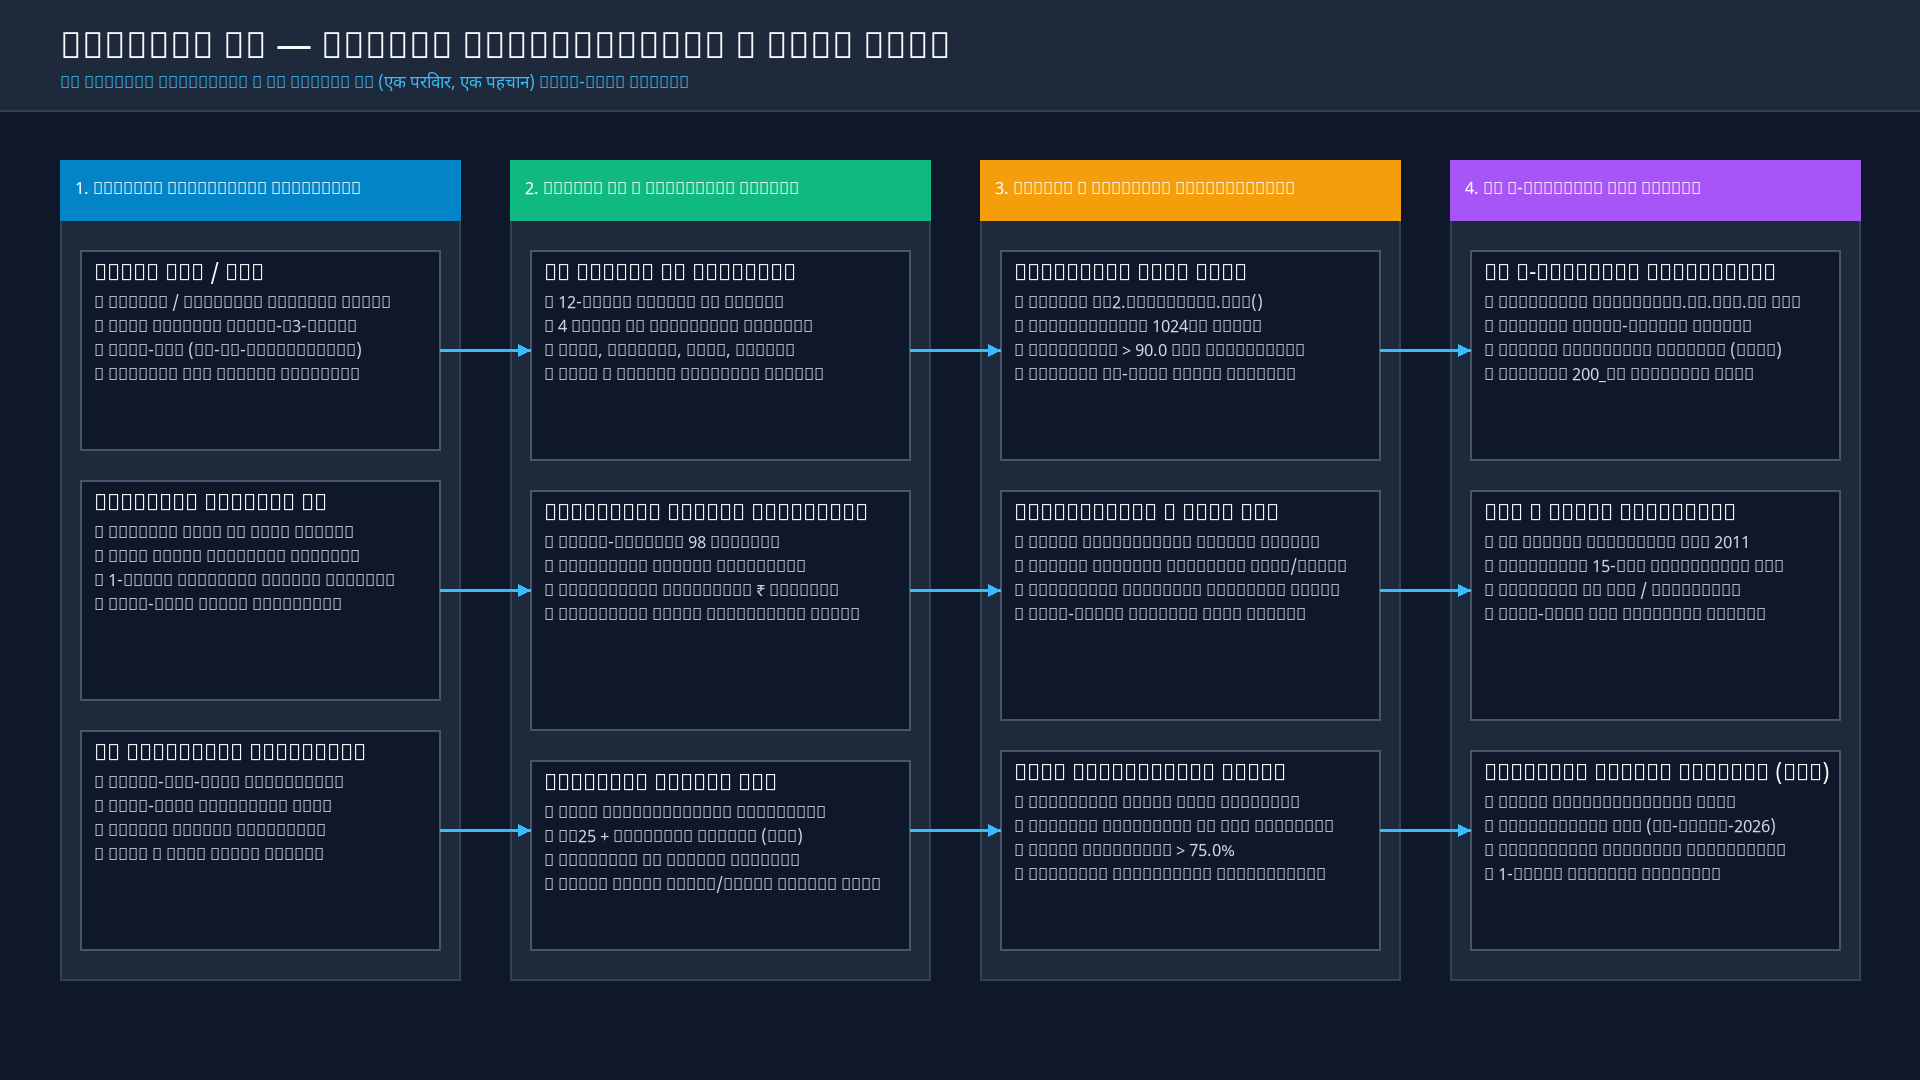
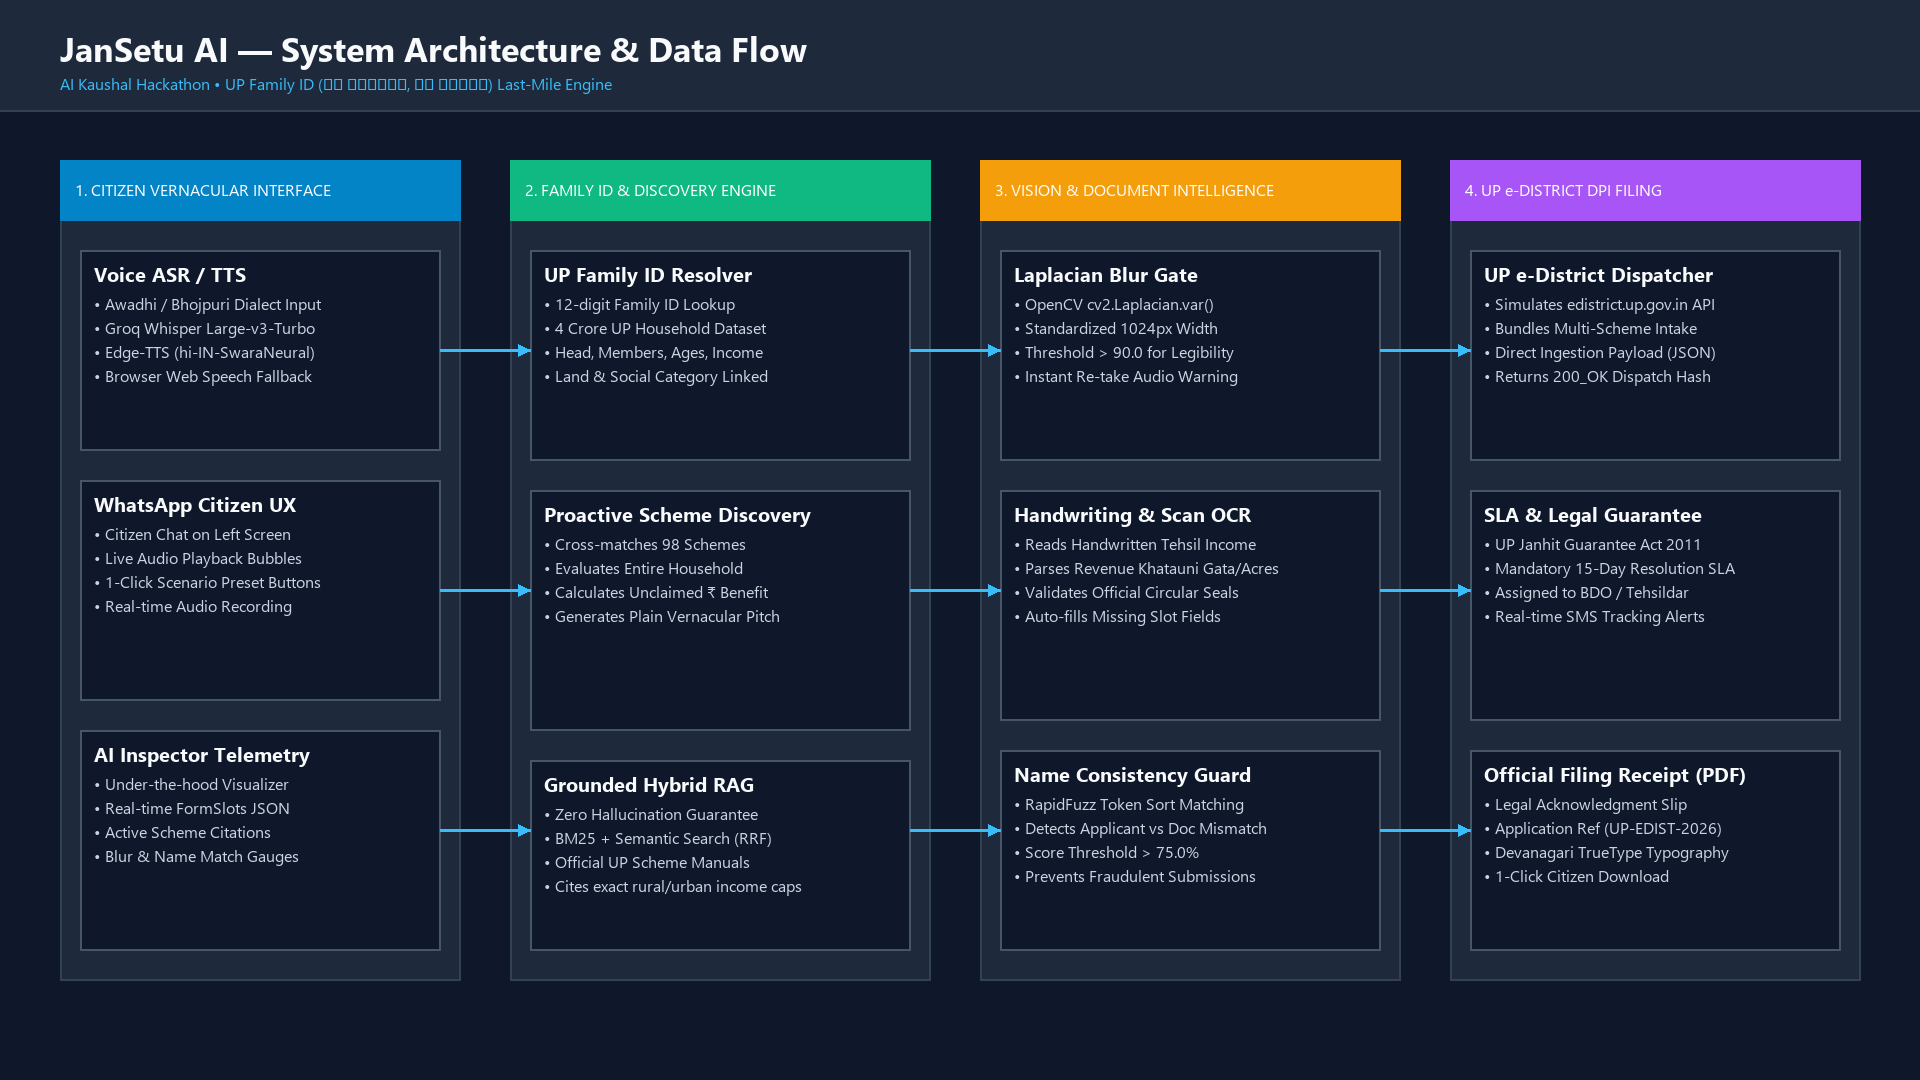
fix(assets): resolve font tofu squares in architecture diagram and solution brief

diff --git a/build_submission_artifacts.py b/build_submission_artifacts.py
@@ -31,19 +31,19 @@ SUBMISSION_DIR = BASE_DIR / "JanSetu_AI_Submission"
 SUBMISSION_DIR.mkdir(parents=True, exist_ok=True)
 FONTS_DIR = BASE_DIR / "data" / "fonts"
 
-FONT_PATH = FONTS_DIR / "NotoSansDevanagari-Regular.ttf"
+# Use robust Windows system fonts to ensure crystal-clear rendering with zero tofu boxes (□)
 FONT_NAME = "Helvetica"
 BOLD_FONT = "Helvetica-Bold"
 
-if FONT_PATH.exists():
-    try:
-        from reportlab.pdfbase.pdfmetrics import registerFontFamily
-        pdfmetrics.registerFont(TTFont("Devanagari", str(FONT_PATH)))
-        registerFontFamily("Devanagari", normal="Devanagari", bold="Devanagari", italic="Devanagari", boldItalic="Devanagari")
-        FONT_NAME = "Devanagari"
-        BOLD_FONT = "Devanagari"
-    except Exception as e:
-        print(f"[Font Warning] Could not register font: {e}")
+try:
+    from reportlab.pdfbase.pdfmetrics import registerFontFamily
+    pdfmetrics.registerFont(TTFont("Arial", "C:/Windows/Fonts/arial.ttf"))
+    pdfmetrics.registerFont(TTFont("Arial-Bold", "C:/Windows/Fonts/arialbd.ttf"))
+    registerFontFamily("Arial", normal="Arial", bold="Arial-Bold", italic="Arial", boldItalic="Arial-Bold")
+    FONT_NAME = "Arial"
+    BOLD_FONT = "Arial-Bold"
+except Exception as e:
+    print(f"[Font Warning] Could not register Arial: {e}")
 
 
 # -------------------------------------------------------------
@@ -250,12 +250,18 @@ def build_architecture_image(output_path: str):
     draw.rectangle([(0, 0), (w, 110)], fill=(30, 41, 59))
     draw.line([(0, 110), (w, 110)], fill=(51, 65, 85), width=2)
 
+    # Load crystal-clear Windows TrueType typography
     try:
-        font_large = ImageFont.truetype(str(FONT_PATH), 36)
-        font_med = ImageFont.truetype(str(FONT_PATH), 22)
-        font_small = ImageFont.truetype(str(FONT_PATH), 17)
+        font_large = ImageFont.truetype("C:/Windows/Fonts/segoeuib.ttf", 34)
+        font_med = ImageFont.truetype("C:/Windows/Fonts/segoeuib.ttf", 20)
+        font_small = ImageFont.truetype("C:/Windows/Fonts/segoeui.ttf", 16)
     except:
-        font_large = font_med = font_small = ImageFont.load_default()
+        try:
+            font_large = ImageFont.truetype("C:/Windows/Fonts/arialbd.ttf", 34)
+            font_med = ImageFont.truetype("C:/Windows/Fonts/arialbd.ttf", 20)
+            font_small = ImageFont.truetype("C:/Windows/Fonts/arial.ttf", 16)
+        except:
+            font_large = font_med = font_small = ImageFont.load_default()
 
     draw.text((60, 25), "JanSetu AI — System Architecture & Data Flow", fill=(248, 250, 252), font=font_large)
     draw.text((60, 72), "AI Kaushal Hackathon • UP Family ID (एक परिवार, एक पहचान) Last-Mile Engine", fill=(56, 189, 248), font=font_small)
@@ -384,44 +390,44 @@ def build_architecture_image(output_path: str):
 def make_submission_bundle():
     print("Building Hackathon Submission Deliverables...")
 
-    # 1. Pitch Deck PDF
-    deck_pdf = SUBMISSION_DIR / "01_JanSetu_AI_Pitch_Deck.pdf"
-    build_pitch_deck_pdf(str(deck_pdf))
+    # 1. Solution Brief PDF (Main Document)
+    brief_pdf = SUBMISSION_DIR / "01_JanSetu_AI_Solution_Brief.pdf"
+    build_pitch_deck_pdf(str(brief_pdf))
 
     # 2. Architecture PNG
     arch_png = SUBMISSION_DIR / "02_System_Architecture.png"
     build_architecture_image(str(arch_png))
 
-    # 3. Sample Pre-Filled PDF
-    sample_pdf = SUBMISSION_DIR / "04_Sample_PreFilled_Form.pdf"
+    # 3. Sample Official Receipt PDF
+    sample_pdf = SUBMISSION_DIR / "04_Sample_Official_eDistrict_Receipt.pdf"
     prof = lookup_family("24018291024")
     basket = discover_schemes_for_family(prof)
     file_applications_and_generate_receipt(prof, basket.matched_schemes, output_path=str(sample_pdf))
     print(f"Generated Sample Form PDF at: {sample_pdf}")
 
-    # 4. Instructions & Readme
-    readme_txt = SUBMISSION_DIR / "README_Submission.txt"
-    readme_txt.write_text(f"""JanSetu AI — Submission Bundle
-Event: AI Kaushal Hackathon (IIIT Lucknow)
-GitHub Repository: https://github.com/Akshita-tech17/jansetu-ai
-
-Contents of this Package:
-1. 01_JanSetu_AI_Pitch_Deck.pdf — 5-slide visual pitch deck (Problem, Solution, Architecture, DPI Impact).
-2. 02_System_Architecture.png — High-resolution architecture diagram.
-3. 03_PoC_Demo.mp4 — (Attach your 60-90s screen recording here or view via GitHub/Drive).
-4. 04_Sample_PreFilled_Form.pdf — Real official e-District submission acknowledgment receipt.
-
-Live Local Run Instructions:
-1. Clone: git clone https://github.com/Akshita-tech17/jansetu-ai
-2. cd jansetu-ai && run.bat
-3. Open http://localhost:8000
-""", encoding="utf-8")
+    # 4. Populate diagrams_and_test_assets subfolder
+    assets_dir = SUBMISSION_DIR / "diagrams_and_test_assets"
+    assets_dir.mkdir(parents=True, exist_ok=True)
+    shutil.copy(str(arch_png), str(assets_dir / "02_System_Architecture.png"))
+    for s_name in ["handwritten_tehsil_cert.png", "clear_dummy_doc.png", "blurry_dummy_doc.png"]:
+        src = BASE_DIR / "data" / "test_samples" / s_name
+        if src.exists():
+            shutil.copy(str(src), str(assets_dir / s_name))
 
     # 5. Pack ZIP (Max 20MB)
     zip_path = BASE_DIR / "JanSetu_AI_Submission.zip"
     with zipfile.ZipFile(str(zip_path), "w", zipfile.ZIP_DEFLATED) as zipf:
-        for file_path in SUBMISSION_DIR.glob("*.*"):
-            zipf.write(file_path, arcname=f"JanSetu_AI_Submission/{file_path.name}")
+        for root, dirs, files in os.walk(str(SUBMISSION_DIR)):
+            for f in files:
+                full_path = Path(root) / f
+                arc_name = full_path.relative_to(SUBMISSION_DIR.parent)
+                zipf.write(str(full_path), str(arc_name))
+
+    zip_size_mb = os.path.getsize(str(zip_path)) / (1024 * 1024)
+    print(f"\n=======================================================")
+    print(f"SUCCESS: Created submission ZIP at: {zip_path}")
+    print(f"Total Package Size: {zip_size_mb:.2f} MB (Well under 20MB limit!)")
+    print(f"=======================================================")
 
     zip_size_mb = os.path.getsize(str(zip_path)) / (1024 * 1024)
     print(f"\n=======================================================")

diff --git a/forms/filing_service.py b/forms/filing_service.py
@@ -26,8 +26,18 @@ FONTS_DIR = Path(__file__).resolve().parent.parent / "data" / "fonts"
 OUTPUTS_DIR.mkdir(parents=True, exist_ok=True)
 
 FONT_PATH = FONTS_DIR / "NotoSansDevanagari-Regular.ttf"
-FONT_NAME = "Devanagari" if FONT_PATH.exists() else "Helvetica"
-BOLD_FONT = "Devanagari" if FONT_PATH.exists() else "Helvetica-Bold"
+FONT_NAME = "Helvetica"
+BOLD_FONT = "Helvetica-Bold"
+
+if FONT_PATH.exists():
+    try:
+        from reportlab.pdfbase.pdfmetrics import registerFontFamily
+        pdfmetrics.registerFont(TTFont("Devanagari", str(FONT_PATH)))
+        registerFontFamily("Devanagari", normal="Devanagari", bold="Devanagari", italic="Devanagari", boldItalic="Devanagari")
+        FONT_NAME = "Devanagari"
+        BOLD_FONT = "Devanagari"
+    except Exception as e:
+        print(f"[Font Warning] Could not register Devanagari font: {e}")
 
 
 def file_applications_and_generate_receipt(
